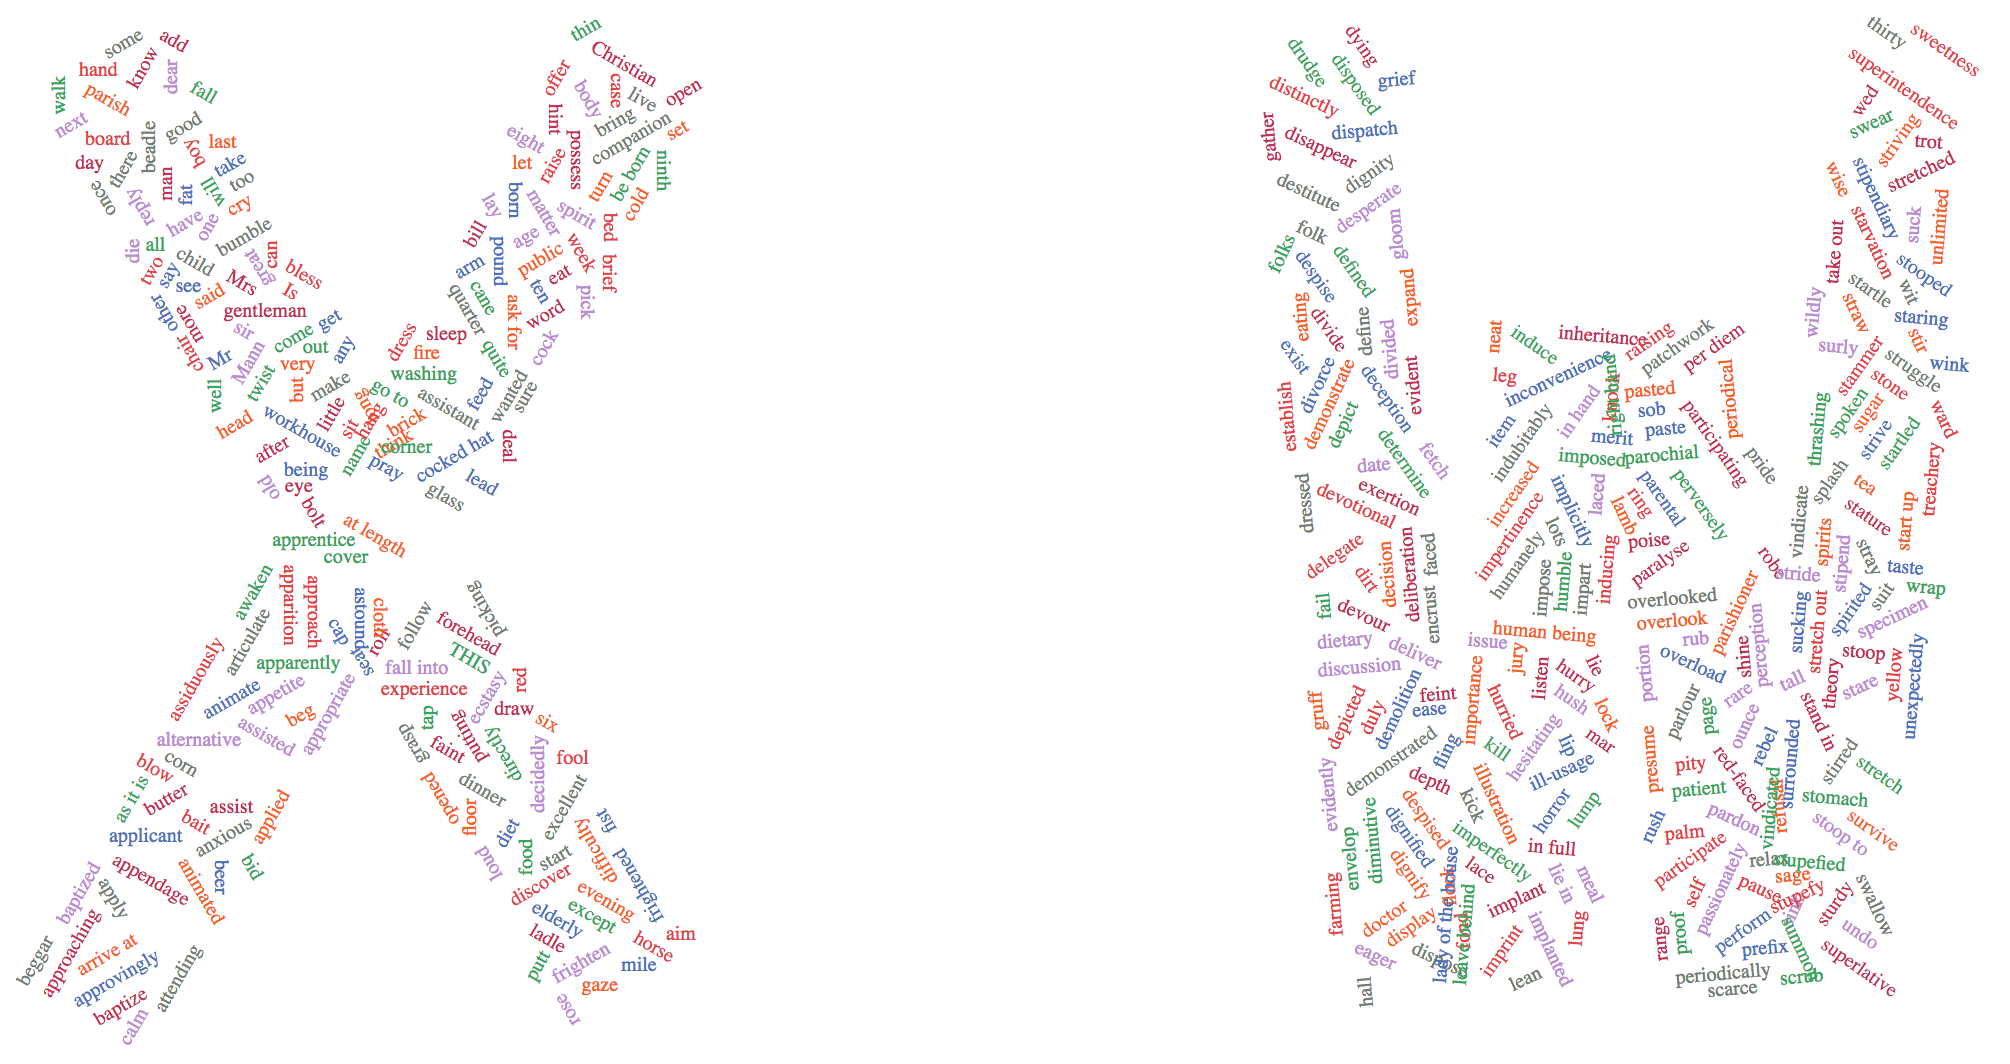
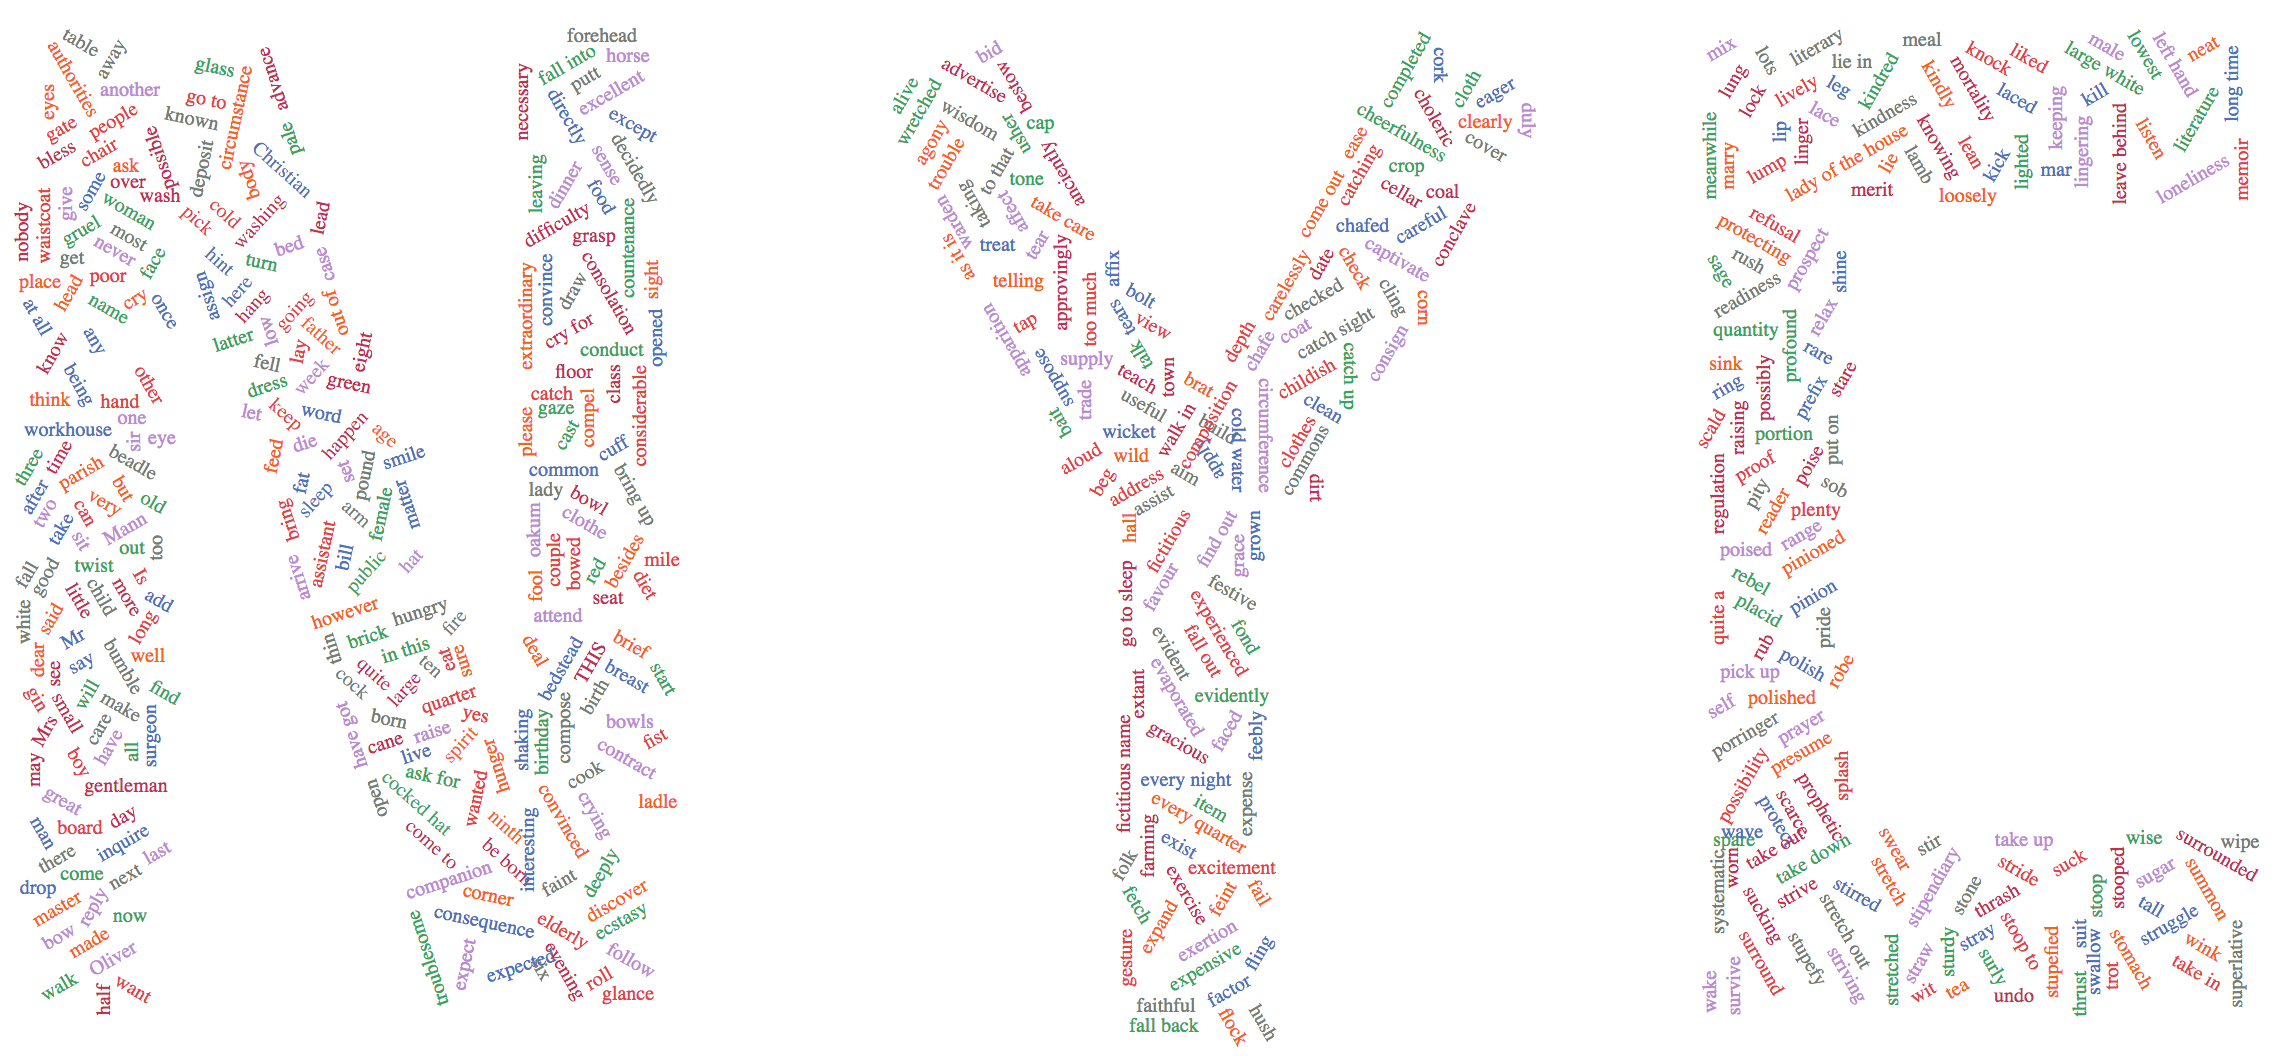
Y fixed

Changed region(s): [[0.401, 0.0, 0.9871, 1.0], [0.0, 0.0312, 0.3393, 0.9688]]

diff --git a/index.html b/index.html
@@ -19,7 +19,7 @@
     <p>This is an example of creating words that consist of words.</p>
     <script>
       var one = 'one';
-      var pattern = "TRY"; // Your word go here!
+      var pattern = "NYCU"; // Your word go here!
       wordle(one, words, pattern);
 
       var two = 'two';

diff --git a/stylesheets/wordle.css b/stylesheets/wordle.css
@@ -1,3 +1,5 @@
+/* Copyright (c) 2018 wuxi9007 */
+
 #word-cloud {
 	padding-top: 10px;
 	padding-left: 5%;
@@ -299,7 +301,7 @@
 }
 .component-49 {
 	margin-top: 240px;
-	margin-left: 75px;
+	margin-left: 130px;
 }
 .component-50 {
 	margin-top: 80px;

diff --git a/javascripts/word-cloud-letters.js b/javascripts/word-cloud-letters.js
@@ -1,3 +1,4 @@
+// Copyright (c) 2018 wuxi9007
 // This is the API to render word patterns consisting of word clouds
 
 function wordle(div, words, pattern) { 

diff --git a/javascripts/letter-components.js b/javascripts/letter-components.js
@@ -1,3 +1,5 @@
+// Copyright (c) 2018 wuxi9007
+
 // number of components in letters
 var letterHash = {
 	'A': 4,
